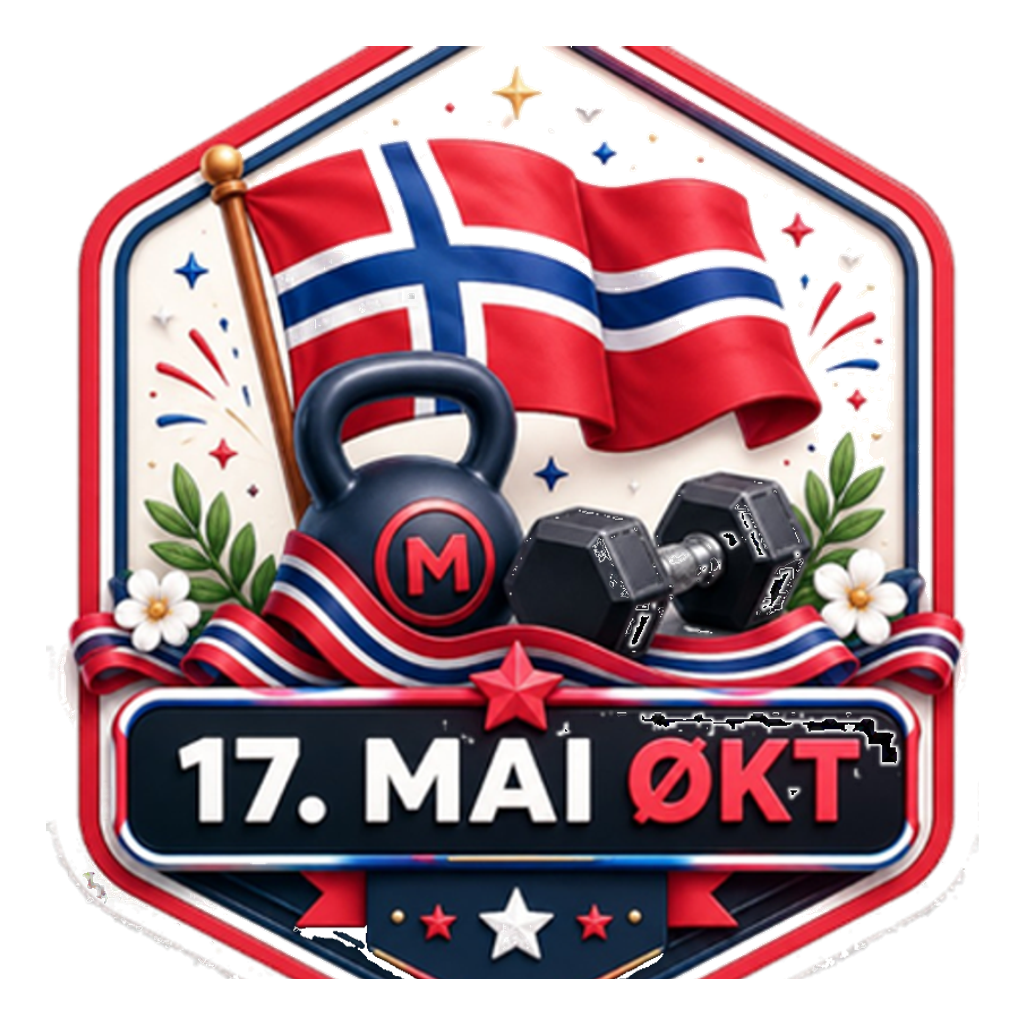
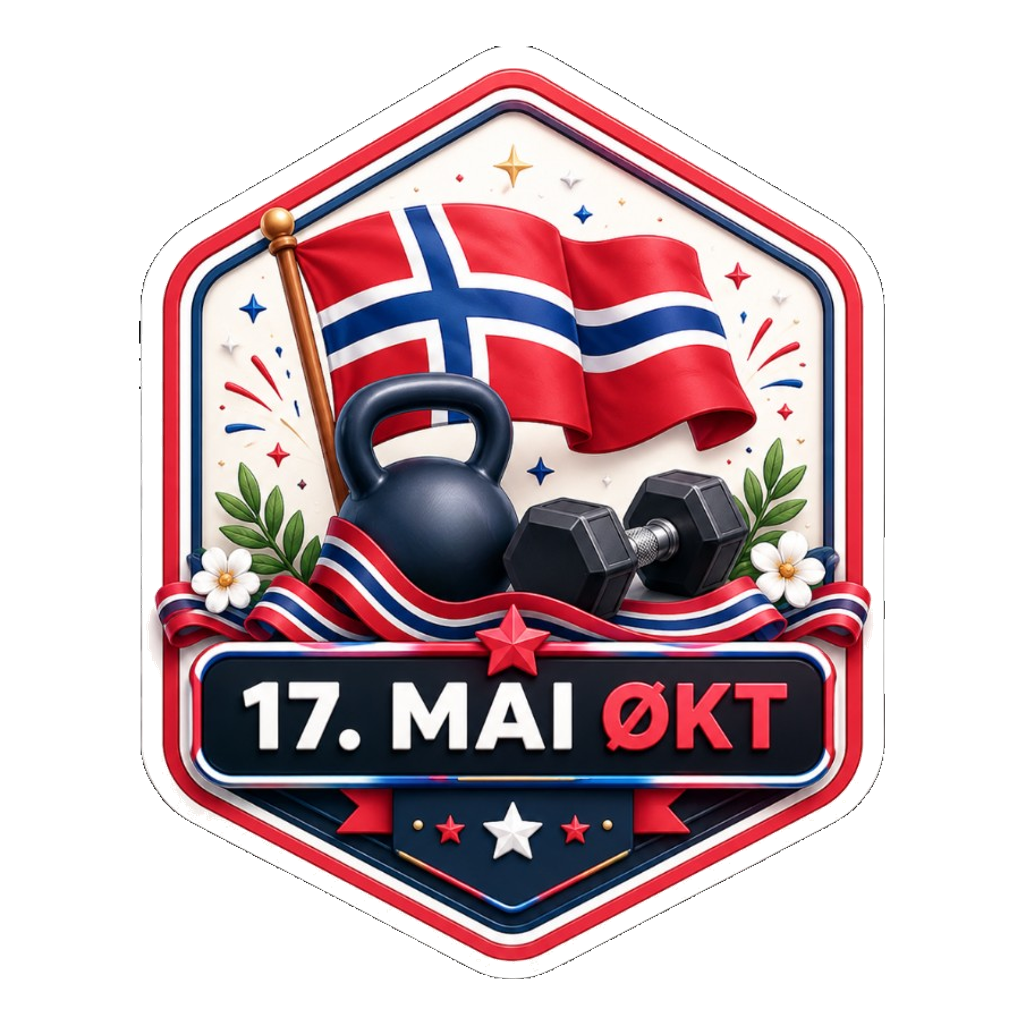
Update 17. mai and Julepump badge artwork.
Replace hidden holiday badge PNGs and bump asset cache version to 43.

diff --git a/src/app/badgeAssets.ts b/src/app/badgeAssets.ts
@@ -1,5 +1,5 @@
 /** Felles badge-bilder (PNG 1024×1024, normalisert visuell størrelse). */
-export const BADGE_ASSET_VERSION = "41";
+export const BADGE_ASSET_VERSION = "43";
 
 export function badgeAssetUrl(path: string): string {
   const base = path.split("?")[0] || path;
